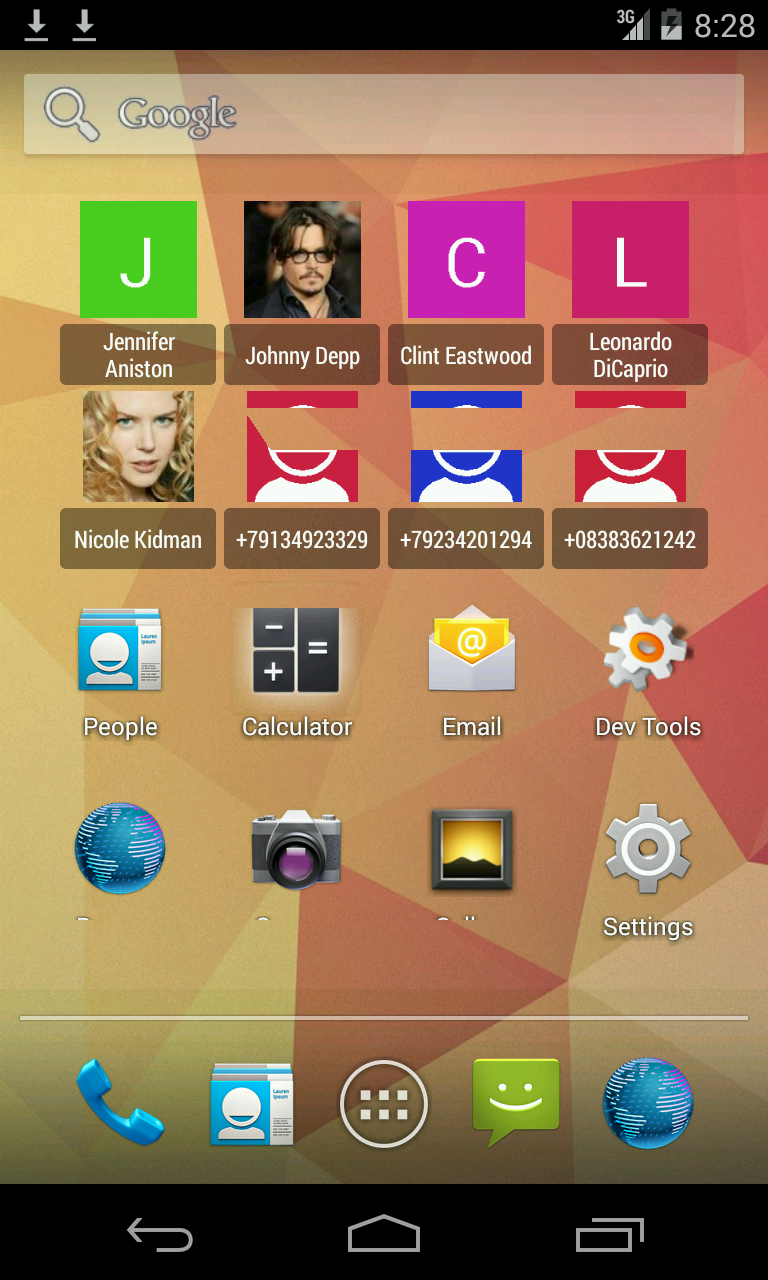
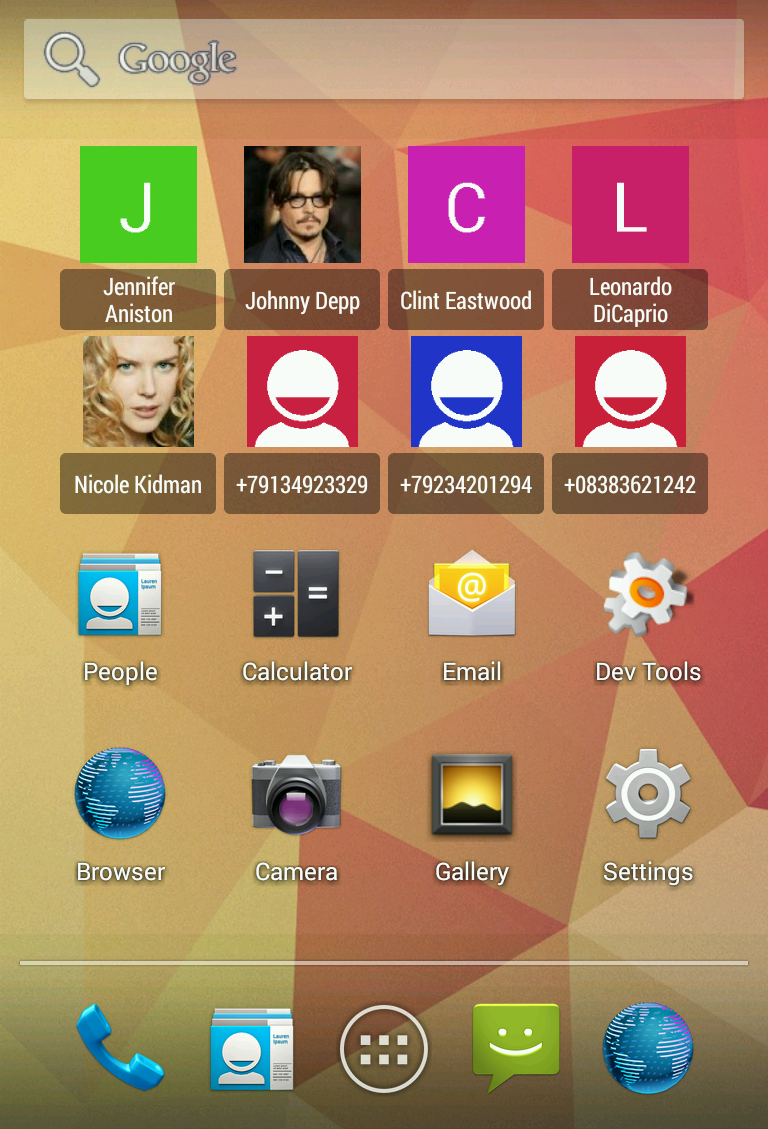
Some old uncommitted changes

diff --git a/src/ru/jdev/qd/services/UpdateService.java b/src/ru/jdev/qd/services/UpdateService.java
@@ -8,6 +8,8 @@ import android.content.Intent;
 import android.os.Handler;
 import android.os.HandlerThread;
 import android.os.IBinder;
+import android.provider.CallLog;
+import android.provider.ContactsContract;
 import android.util.Log;
 import ru.jdev.qd.QdWidgetProvider;
 import ru.jdev.qd.model.ContactInfoDao;
@@ -15,30 +17,36 @@ import ru.jdev.qd.model.Pager;
 import ru.jdev.qd.tasks.ContactImageFactory;
 import ru.jdev.qd.tasks.UpdatePagerTask;
 import ru.jdev.qd.tasks.UpdateWidgetsTask;
-import ru.jdev.qd.utils.StopServiceTask;
 
 public class UpdateService extends Service {
 
     private static final String TAG = "QD.US";
-
-    private static final long KEEP_IN_MEMORY_TIME = 1000 * 60;
 
     public static final String EXTRA_APP_WIDGET_IDS = "appWidgetIds";
     public static final String EXTRA_FORCE_UPDATE_DAO = "forceUpdateDao";
 
     private static ContactInfoDao contactInfoDao;
     private static Pager pager;
-    private static ContactImageFactory contactImageFactory;
+    private static ContactImageFactory contactImageFactory = new ContactImageFactory();
 
     private final HandlerThread handlerThread = new HandlerThread("Model an UI updating thread");
+
+    private CallLogObserver callLogObserver;
+    private ContactsObserver contactsObserver;
 
     private Handler handler;
 
     @Override
     public void onCreate() {
-        Log.v(TAG, "UpdateService created");
+        Log.i(TAG, "UpdateService created");
+
         handlerThread.start();
         handler = new Handler(handlerThread.getLooper());
+
+        callLogObserver = new CallLogObserver(handler, this);
+        contactsObserver = new ContactsObserver(handler, this, contactImageFactory);
+        getContentResolver().registerContentObserver(CallLog.Calls.CONTENT_URI, true, callLogObserver);
+        getContentResolver().registerContentObserver(ContactsContract.Contacts.CONTENT_URI, true, contactsObserver);
     }
 
     @Override
@@ -52,8 +60,6 @@ public class UpdateService extends Service {
         }
         handler.post(new UpdateWidgetsTask(contactImageFactory, getApplicationContext(), pager, getAppWidgetIds(intent)));
 
-        // keep app in memory for minute, for quick response for consequent calls
-        handler.postDelayed(new StopServiceTask(this, startId), KEEP_IN_MEMORY_TIME);
         return START_REDELIVER_INTENT;
     }
 
@@ -74,14 +80,15 @@ public class UpdateService extends Service {
         if (contactInfoDao == null) {
             contactInfoDao = new ContactInfoDao(context);
             pager = new Pager(contactInfoDao);
-            contactImageFactory = new ContactImageFactory();
         }
         return contactInfoDao;
     }
 
     @Override
     public void onDestroy() {
-        Log.v(TAG, "UpdateService destroyed");
+        Log.i(TAG, "UpdateService destroyed");
+        getContentResolver().unregisterContentObserver(callLogObserver);
+        getContentResolver().unregisterContentObserver(contactsObserver);
         handlerThread.quit();
     }
 

diff --git a/src/ru/jdev/qd/services/MonitorCallLogService.java b/src/ru/jdev/qd/services/MonitorCallLogService.java
@@ -2,12 +2,10 @@ package ru.jdev.qd.services;
 
 import android.app.Service;
 import android.content.Intent;
-import android.database.ContentObserver;
 import android.os.Handler;
 import android.os.HandlerThread;
 import android.os.IBinder;
 import android.provider.CallLog;
-import ru.jdev.qd.utils.StopServiceTask;
 
 public class MonitorCallLogService extends Service {
 
@@ -15,40 +13,20 @@ public class MonitorCallLogService extends Service {
     private final HandlerThread handlerThread = new HandlerThread("Model an UI updating thread");
 
     private Handler handler;
-    private ContentObserverImpl observer;
+    private CallLogObserver observer;
 
     @Override
     public void onCreate() {
         handlerThread.start();
         handler = new Handler(handlerThread.getLooper());
-        observer = new ContentObserverImpl(handler);
+        observer = new CallLogObserver(handler, this);
         getContentResolver().registerContentObserver(CallLog.Calls.CONTENT_URI, false, observer);
-        handler.postDelayed(new StopServiceTask(this, StopServiceTask.FORCE_STOP), CALL_LOG_UPDATE_TIMEOUT);
     }
 
     @Override
     public void onDestroy() {
         getContentResolver().unregisterContentObserver(observer);
         handlerThread.quit();
-    }
-
-    private class ContentObserverImpl extends ContentObserver {
-
-        public ContentObserverImpl(Handler handler) {
-            super(handler);
-        }
-
-        @Override
-        public boolean deliverSelfNotifications() {
-            return false;
-        }
-
-        @Override
-        public void onChange(boolean selfChange) {
-            final Intent updateIntent = UpdateService.createIntent(MonitorCallLogService.this, null, true);
-            startService(updateIntent);
-            handler.post(new StopServiceTask(MonitorCallLogService.this, StopServiceTask.FORCE_STOP));
-        }
     }
 
     @Override

diff --git a/src/ru/jdev/qd/services/ContactsObserver.java b/src/ru/jdev/qd/services/ContactsObserver.java
@@ -1,0 +1,33 @@
+package ru.jdev.qd.services;
+
+import android.content.Context;
+import android.content.Intent;
+import android.database.ContentObserver;
+import android.net.Uri;
+import android.os.Handler;
+import android.util.Log;
+import ru.jdev.qd.tasks.ContactImageFactory;
+
+public class ContactsObserver extends ContentObserver {
+
+    private static final String TAG = "QD.CO";
+
+    private final ContactImageFactory contactImageFactory;
+    private final Context context;
+
+    public ContactsObserver(Handler handler, Context context, ContactImageFactory contactImageFactory) {
+        super(handler);
+        this.context = context;
+        this.contactImageFactory = contactImageFactory;
+    }
+
+    @Override
+    public void onChange(boolean selfChange, Uri uri) {
+        Log.i(TAG, "ContactsObserver onChange, uri = " + uri);
+        contactImageFactory.evictContactPhotos();
+
+        final Intent updateIntent = UpdateService.createIntent(context, null, true);
+        context.startService(updateIntent);
+    }
+
+}

diff --git a/src/ru/jdev/qd/services/CallLogObserver.java b/src/ru/jdev/qd/services/CallLogObserver.java
@@ -1,0 +1,33 @@
+package ru.jdev.qd.services;
+
+import android.content.Context;
+import android.content.Intent;
+import android.database.ContentObserver;
+import android.net.Uri;
+import android.os.Handler;
+import android.util.Log;
+
+class CallLogObserver extends ContentObserver {
+
+    private static final String TAG = "QD.CLO";
+
+    private final Context context;
+
+    public CallLogObserver(Handler handler, Context context) {
+        super(handler);
+        this.context = context;
+    }
+
+    @Override
+    public void onChange(boolean selfChange, Uri uri) {
+        Log.i(TAG, "CallLogObserver onChange, uri = " + uri);
+        final Intent updateIntent = UpdateService.createIntent(context, null, true);
+        context.startService(updateIntent);
+    }
+
+    @Override
+    public boolean deliverSelfNotifications() {
+        return false;
+    }
+
+}

diff --git a/src/ru/jdev/qd/tasks/ContactImageFactory.java b/src/ru/jdev/qd/tasks/ContactImageFactory.java
@@ -7,7 +7,9 @@ import android.provider.ContactsContract;
 import ru.jdev.qd.model.ContactInfo;
 
 import java.io.InputStream;
+import java.util.Iterator;
 import java.util.LinkedHashMap;
+import java.util.Map;
 
 public class ContactImageFactory {
 
@@ -36,6 +38,18 @@ public class ContactImageFactory {
         }
 
         return new FallbackImageFactory(contactInfo).getFallbackImage();
+    }
+
+    public void evictContactPhotos() {
+
+        final Iterator<Map.Entry<ContactInfo,Bitmap>> cachedImagesIter = imagesCache.entrySet().iterator();
+        while (cachedImagesIter.hasNext()) {
+            Map.Entry<ContactInfo, Bitmap> cachedImg = cachedImagesIter.next();
+            if (cachedImg.getKey().getPersonUri() != null) {
+                cachedImagesIter.remove();
+            }
+        }
+
     }
 
 }

diff --git a/src/ru/jdev/qd/services/DeactivateService.java b/src/ru/jdev/qd/services/DeactivateService.java
@@ -11,7 +11,7 @@ public class DeactivateService extends IntentService {
     public static final String APP_WIDGET_ID = "appWidgetId";
     public static final String EXPECTED_PHONE = "expectedPhone";
 
-    private static final String TAG = "QD.TOS";
+    private static final String TAG = "QD.DAS";
 
     public DeactivateService() {
         super(DeactivateService.class.getName());
@@ -19,7 +19,7 @@ public class DeactivateService extends IntentService {
 
     @Override
     protected void onHandleIntent(Intent intent) {
-        Log.w(TAG, "Turn off");
+        Log.v(TAG, "Turn off");
 
         final int unknown = -1;
 

diff --git a/src/ru/jdev/qd/PhoneStateReceiver.java b/src/ru/jdev/qd/PhoneStateReceiver.java
@@ -3,12 +3,12 @@ package ru.jdev.qd;
 import android.content.BroadcastReceiver;
 import android.content.Context;
 import android.content.Intent;
-import ru.jdev.qd.services.MonitorCallLogService;
+import ru.jdev.qd.services.UpdateService;
 
 public class PhoneStateReceiver extends BroadcastReceiver {
 
     public void onReceive(Context context, Intent intent) {
-        context.startService(new Intent(context, MonitorCallLogService.class));
+        context.startService(UpdateService.createIntent(context, null, true));
     }
 
 }

diff --git a/src/ru/jdev/qd/services/TapListenerService.java b/src/ru/jdev/qd/services/TapListenerService.java
@@ -30,7 +30,7 @@ public class TapListenerService extends IntentService {
         }
 
         final String activePhone = QdWidgetProvider.getActivePhone(this, appWidgetId);
-        Log.i(TAG, activePhone == null ? "null" : activePhone);
+        Log.v(TAG, activePhone == null ? "null" : activePhone);
 
         final String selectedPhone = intent.getStringExtra(PHONE_TO_CALL);
         if (isActivePhoneSelected(activePhone, selectedPhone)) {

diff --git a/src/ru/jdev/qd/model/ContactInfoDao.java b/src/ru/jdev/qd/model/ContactInfoDao.java
@@ -36,7 +36,7 @@ public class ContactInfoDao {
     }
 
     public synchronized boolean update() {
-        Log.v(TAG, "Update ContactInfoDao");
+        Log.i(TAG, "Update ContactInfoDao");
         final String[] params = {Long.toString(lastUpdateTimeMillis)};
         final Cursor c = context.getContentResolver().query(CallLog.Calls.CONTENT_URI, callsProjection, SELECT_CALLS_WHERE, params, null);
         boolean isUpdated = false;
